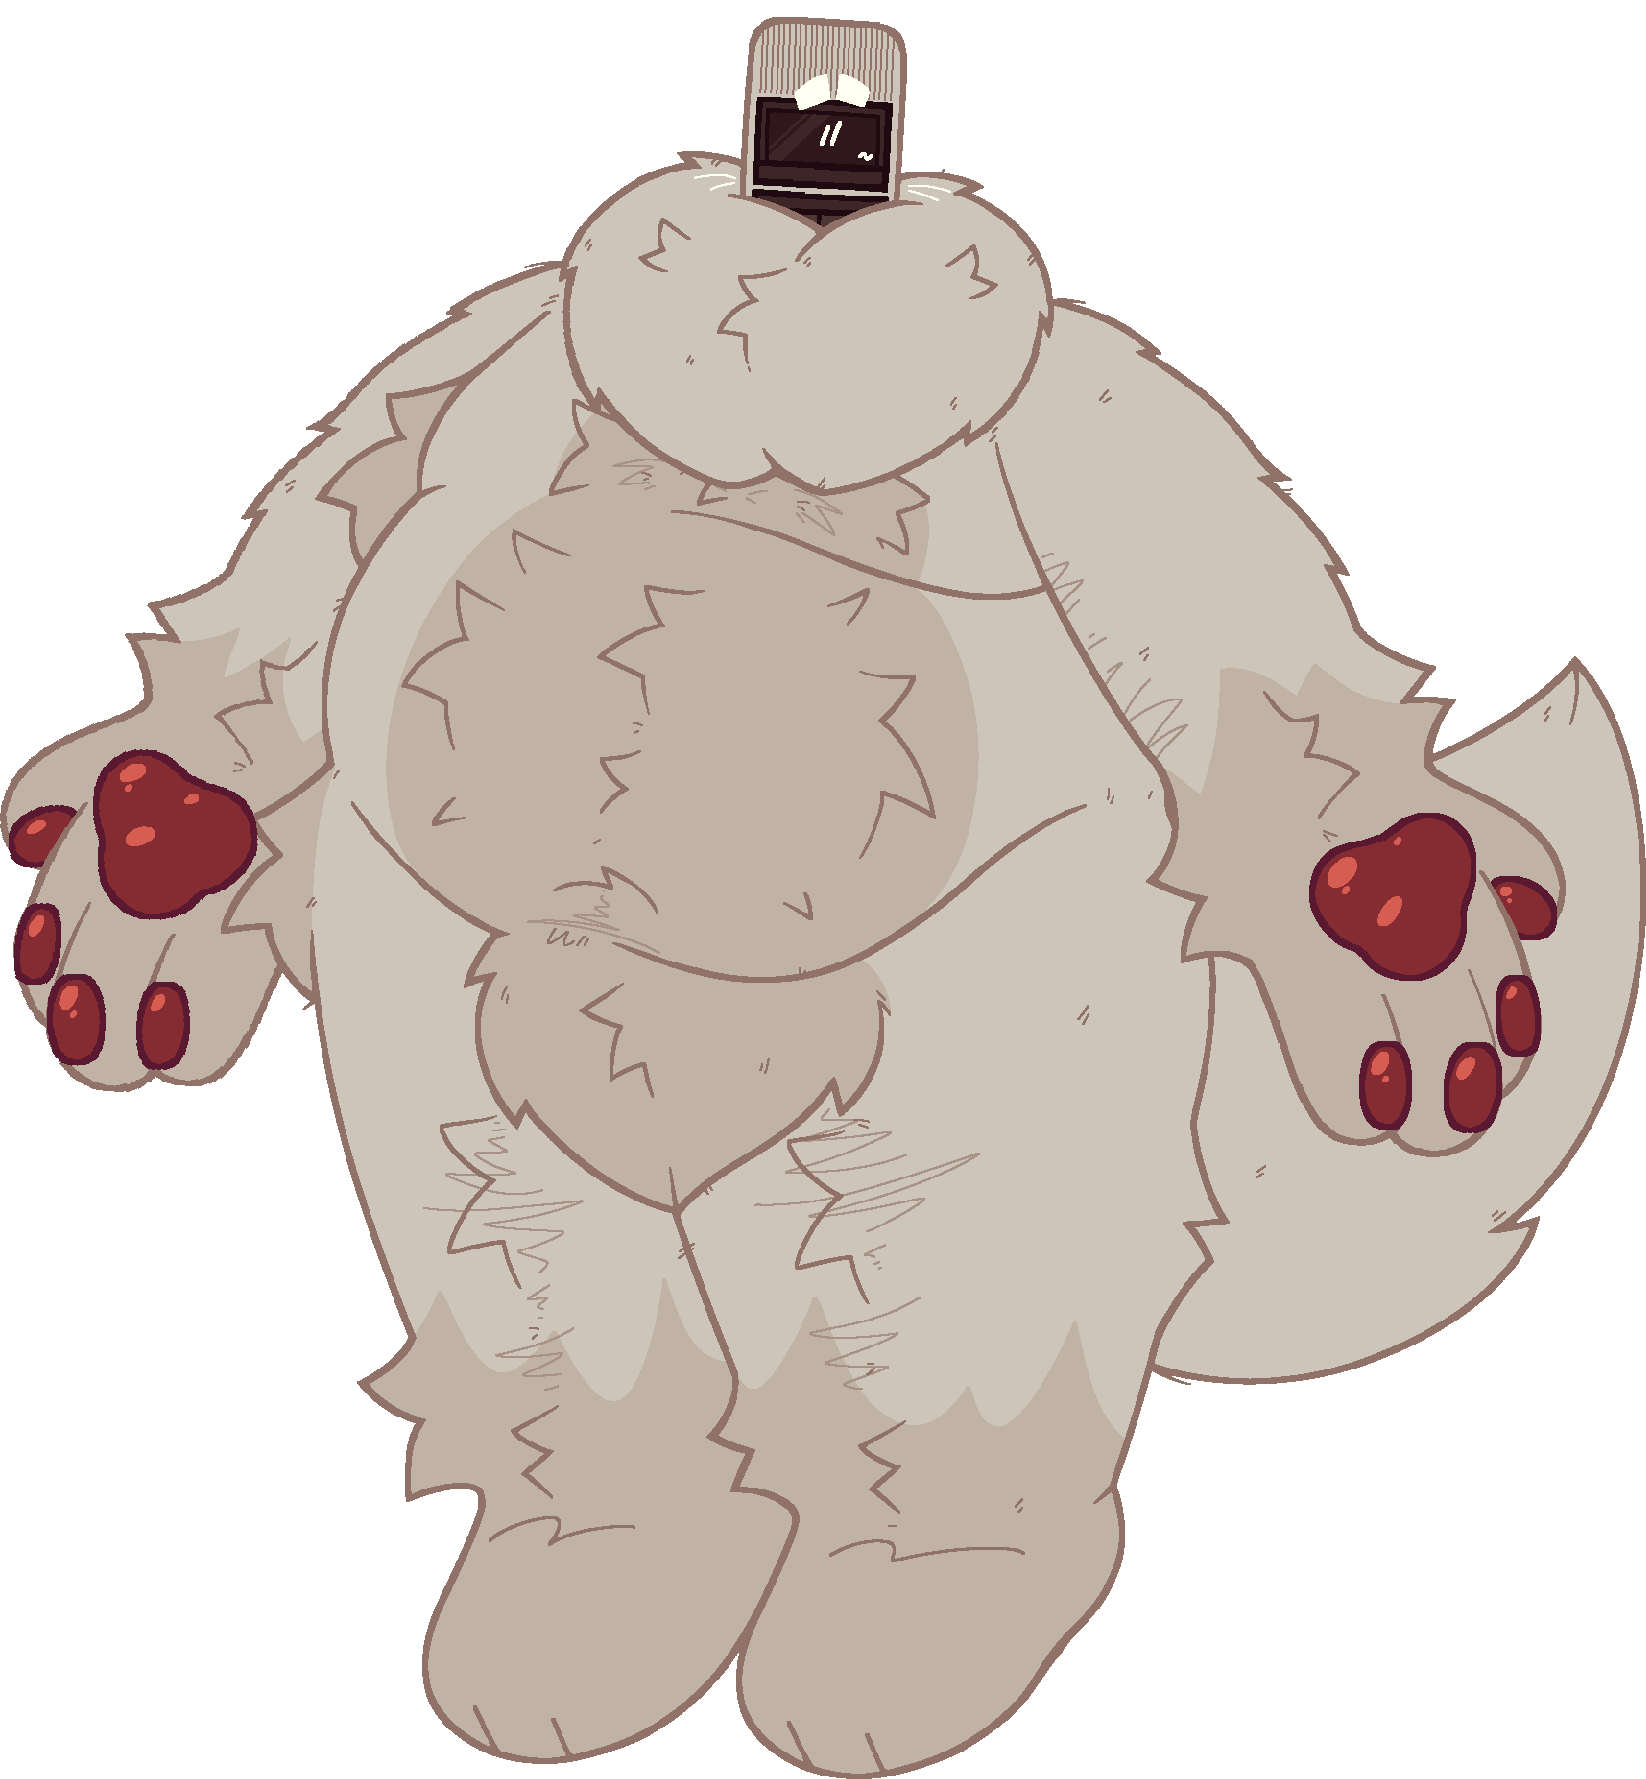
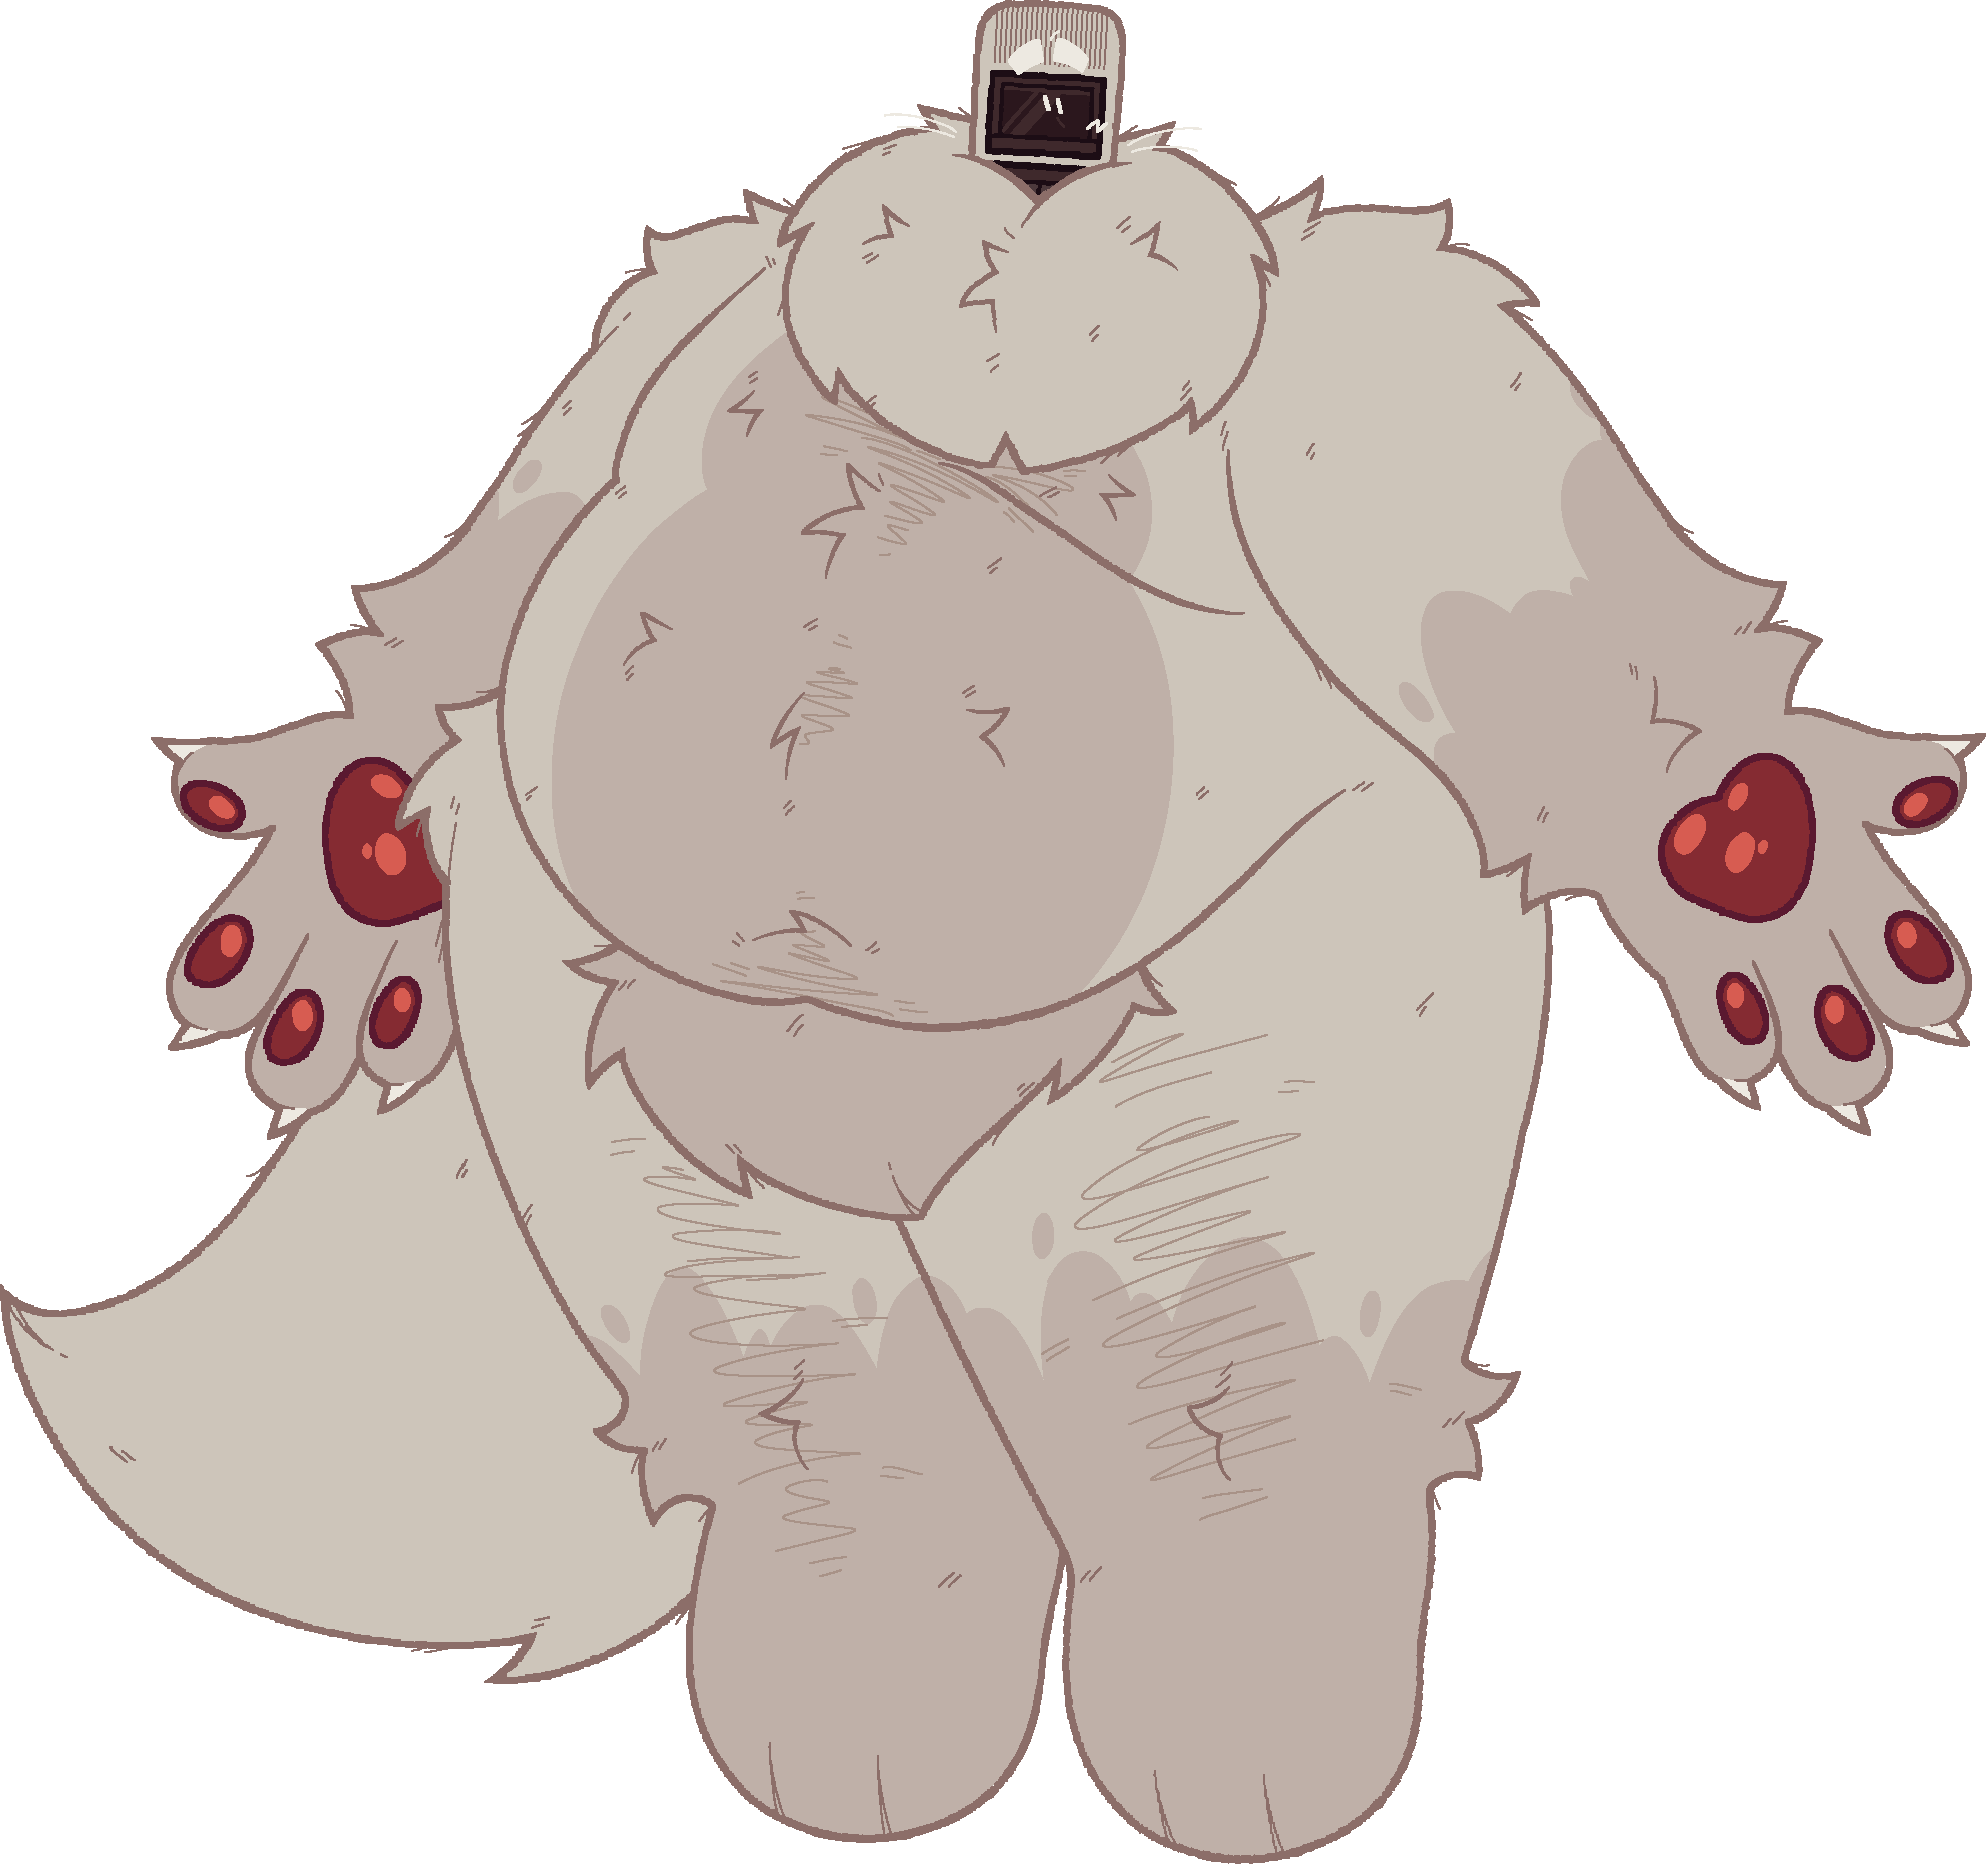
rec

diff --git a/characters/rec/index.html b/characters/rec/index.html
@@ -35,7 +35,8 @@
                 cat, 7'0"</i>
                 <br><br>
                 very kind and sweet, usually tired<br>
-                musician</p>
+                lo-fi musician
+                manager of Crumbs</p>
                 <br>
                 <h3><u>relationships</u></h3>
                 <p><a href="../apollo/">apollo</a>'s boyfriend<br>